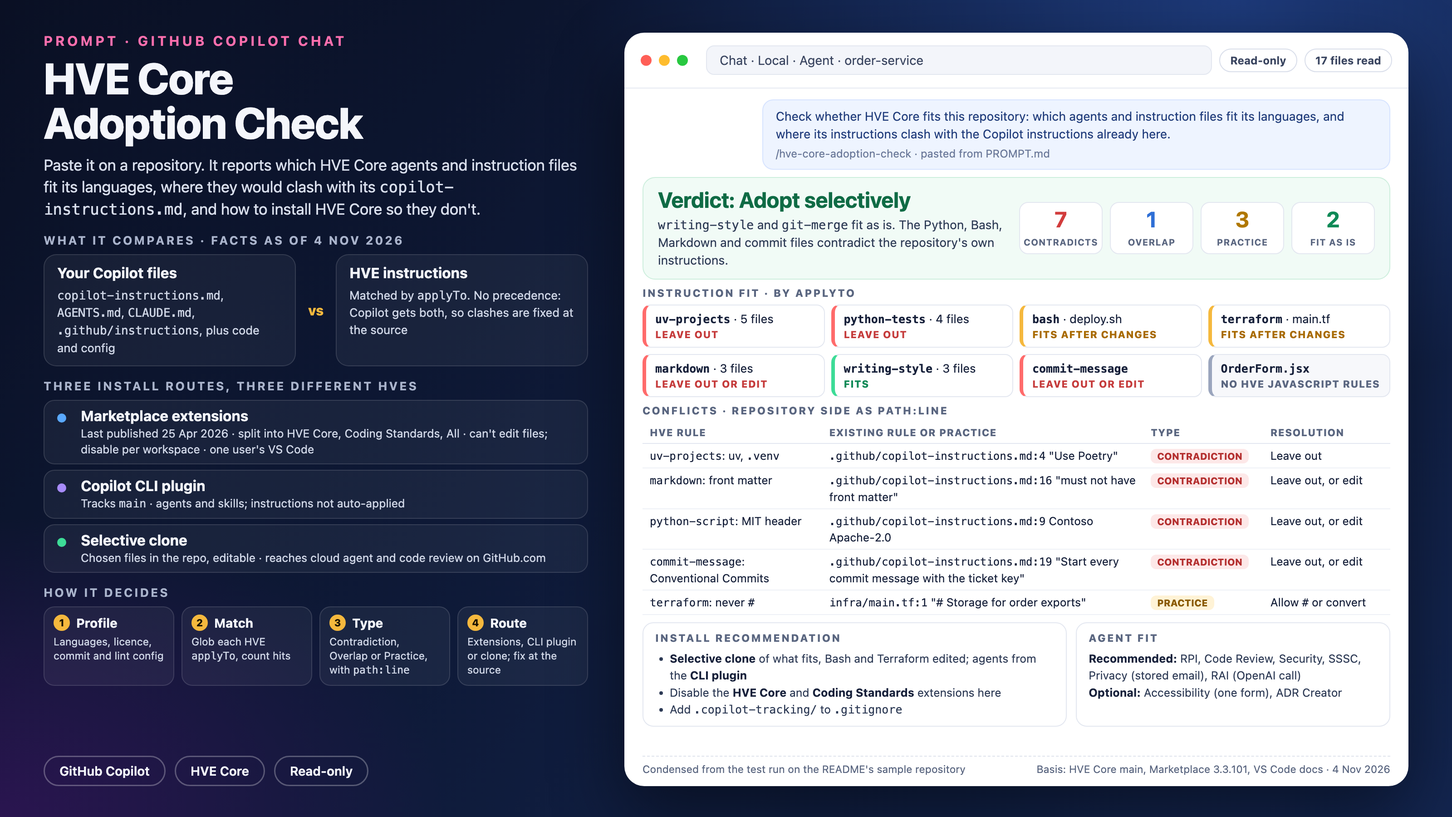
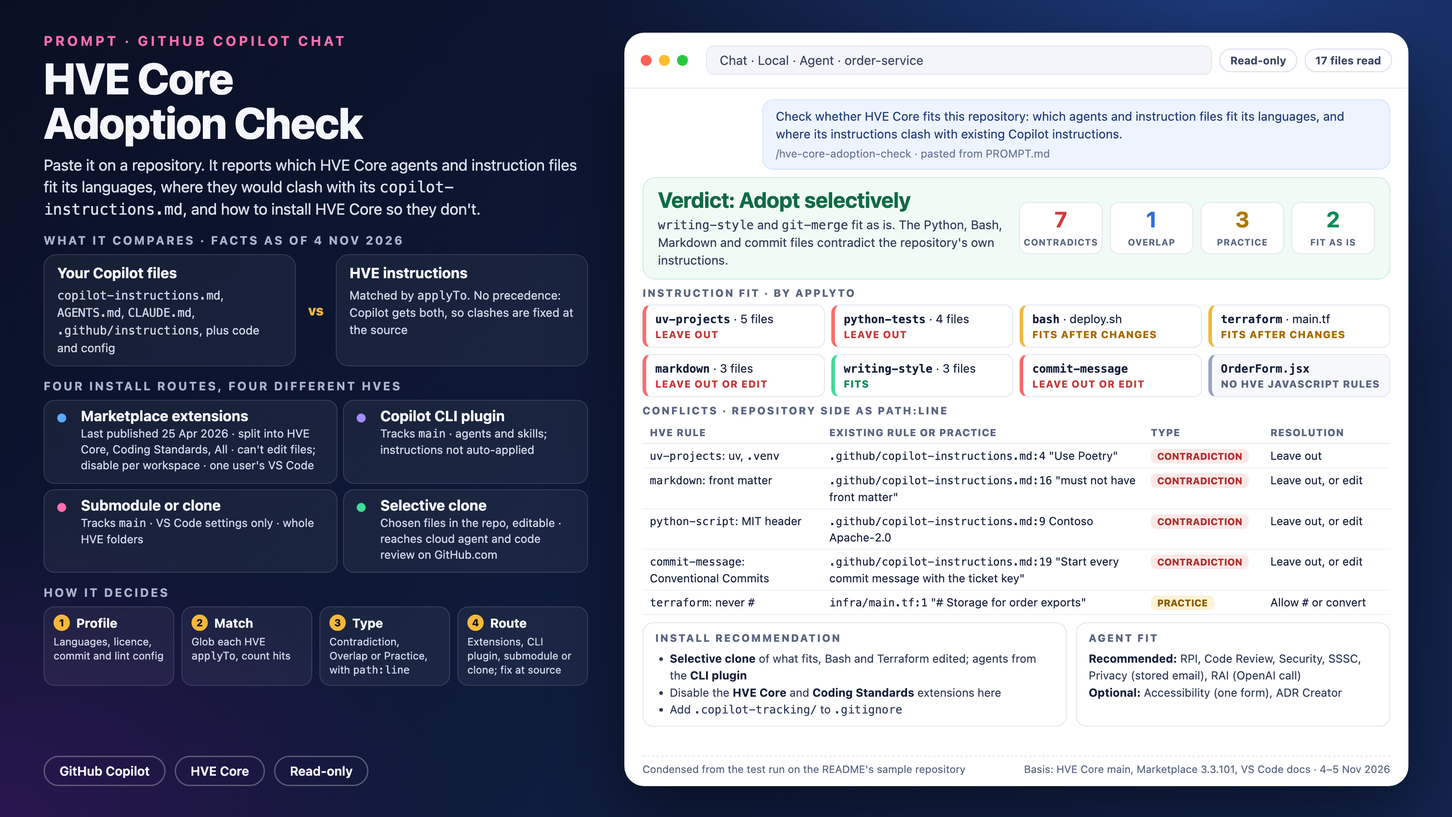
hve-core-adoption-check 1.1: technical review fixes
Corrects facts against current Microsoft Learn pages, updates terminology (Copilot Studio harnesses, Copilot Credits, Microsoft Entra Agent ID), re-sources claims from withdrawn pages, and refreshes the prompt's sources, dates and preview image where they had changed.

diff --git a/prompts/hve-core-adoption-check/README.md b/prompts/hve-core-adoption-check/README.md
@@ -13,7 +13,7 @@ Paste this prompt into GitHub Copilot Chat with the repository open, and Copilot
 - **instruction fit**: each HVE instruction file whose `applyTo` pattern matches files in the repository, with the count and an example path, and the repository's languages HVE doesn't cover;
 - **conflicts**: each HVE rule against the existing rule or practice it meets, with the repository side as `path:line`, typed as a Contradiction, an Overlap or a Practice conflict, and a resolution at the source;
 - **agent fit**: each HVE agent as Recommended, Optional or Not relevant, with the evidence;
-- an **install recommendation**: which extensions, the CLI plugin or a selective clone; which files to include or leave out; whether the result reaches one developer or everyone through the repository; the `.gitignore` line HVE needs; and the change that resolves each Contradiction.
+- an **install recommendation**: which extensions, the CLI plugin, a submodule or a selective clone; which files to include or leave out; whether the result reaches one developer or everyone through the repository; the `.gitignore` line HVE needs; and the change that resolves each Contradiction.
 
 It only reads. It doesn't install HVE Core, change files or run commands that change anything.
 
@@ -21,8 +21,8 @@ It only reads. It doesn't install HVE Core, change files or run commands that ch
 
 | File | What it's for | Where it goes |
 |---|---|---|
-| [`PROMPT.md`](./PROMPT.md) | The prompt: how instructions combine, where HVE Core comes from, its instruction files with the rules most likely to clash, its agents, the steps, the report format and the rules. 7,989 of the 8,000 characters allowed, so trim before adding to it. | Pasted into chat, as is |
-| [`assets/preview.png`](./assets/preview.png) | The gallery image: what the prompt compares, the three install routes, how it decides, and a condensed version of the report from the second test run on the sample repository described under Limitations | For people only |
+| [`PROMPT.md`](./PROMPT.md) | The prompt: how instructions combine, where HVE Core comes from, its instruction files with the rules most likely to clash, its agents, the steps, the report format and the rules. 7,993 of the 8,000 characters allowed, so trim before adding to it. | Pasted into chat, as is |
+| [`assets/preview.png`](./assets/preview.png) | The gallery image: what the prompt compares, the four install routes, how it decides, and a condensed version of the report from the second test run on the sample repository described under Limitations | For people only |
 
 ## Run it
 
@@ -55,28 +55,29 @@ The prompt has no placeholders.
 
 ## What it checks
 
-The prompt states the facts below so the agent doesn't need HVE Core installed or current documentation. HVE Core's `main` was read at commit `5867249` (4 November 2026) and re-checked at `ad69514`, which changed no agents, instructions or `plugin.json`. The Marketplace releases were read from the tags `hve-core-v3.2.2` (23 March 2026) and `hve-core-v3.3.101` (24 April 2026) and from the Marketplace listings.
+The prompt states the facts below so the agent doesn't need HVE Core installed or current documentation. HVE Core's `main` was read at commit `5867249` (4 November 2026) and re-checked on 5 November 2026 at three later commits: `ad69514` changed no agents, instructions or `plugin.json`; `8931ffb` added one line about table delimiter rows to `markdown.instructions.md` and changed no rule the prompt states; `be6ab37` moved `pester.instructions.md` from Pester 5.x to 6.x, which the prompt now states. The Marketplace releases were read from the tags `hve-core-v3.2.2` (23 March 2026) and `hve-core-v3.3.101` (committed 24 April 2026, released and published to the Marketplace 25 April 2026, UTC) and from the Marketplace listings.
 
 | What the prompt says | Basis |
 |---|---|
 | Copilot combines instruction sources with no general precedence order | "There is no precedence rule that applies across all harnesses"; "Copilot combines applicable user and repository instructions without a general precedence order between instruction files"; Local: "Avoid contradictory rules rather than relying on their order" (Custom instructions reference). HVE Core's instructions page agrees: "Applicable instruction sources are additive, and no source outranks another" (Customizing with Instructions) |
 | Resolve at the source, never with a rule telling Copilot to ignore HVE | "Don't rely on a universal precedence order", "remove or narrow the conflicting personal rule", "Don't add another rule to compensate" (Custom instructions) |
 | How an `.instructions.md` file applies; description-only files; inline suggestions | `applyTo` matches "files the agent works with"; "In Local sessions, a `description` lets the agent decide whether to read an instructions file for the task"; custom instructions "don't apply to inline suggestions as you type" (Custom instructions; Custom instructions reference) |
-| What it inventories: `AGENTS.md` in any folder, `CLAUDE.md`, `.claude/rules` | Copilot discovers `AGENTS.md` at the repository root, in the working directory and intermediate directories, and along the paths to files it works with; Local checks "the workspace-root `CLAUDE.md`, `.claude/CLAUDE.md`" and reads Markdown files in `.claude/rules` (Custom instructions reference) |
+| What it inventories: `AGENTS.md` in any folder, `CLAUDE.md`, `.claude/rules` | Copilot discovers `AGENTS.md` at the repository root, in the working directory and intermediate directories, and along the paths to files it works with; Local checks "the workspace-root `CLAUDE.md`, `.claude/CLAUDE.md`" and reads Markdown files in `.claude/rules` (Custom instructions reference). GitHub's support table also lists `GEMINI.md` as agent instructions for Copilot cloud agent and the Copilot CLI, and `REVIEW.md` for Copilot code review on GitHub.com (Support for different types of custom instructions); the prompt doesn't inventory either |
 | Repository instruction files reach Copilot cloud agent, the CLI and code review on GitHub.com; an extension reaches one user's VS Code | The support table lists repository-wide and path-specific instructions as supported by Copilot code review on GitHub.com, Copilot cloud agent and Copilot CLI (Support for different types of custom instructions). VS Code says to "share project instructions through source control" (Custom instructions). An extension is installed per user; that it reaches only that user's VS Code is this prompt's inference |
 | `main` is what the CLI plugin gets; its instructions aren't auto-applied | The plugin registration "tracks `main`" (HVE Core Identity and Channels); "Instruction files in plugin directories are **not** auto-applied via `applyTo` pattern matching" (Copilot CLI Plugin) |
 | Marketplace extensions: dates, versions, collections, older agent names | Visual Studio Marketplace version history for `ise-hve-essentials.hve-core`, `hve-coding-standards` and `hve-core-all`: latest Stable 3.2.2 (23 March 2026), latest pre-release 3.3.101 (25 April 2026). The **HVE Core** listing shows 17 agents (`task-researcher`, `task-planner`, `pr-review` and others), 15 prompts and 7 instructions (`commit-message`, `git-merge`, `markdown`, `prompt-builder`, `pull-request`, `writing-style`, `hve-core-location`). The **HVE Core - Coding Standards** listing shows the language instructions for Bash, Bicep, C#, PowerShell, Python, Rust and Terraform, and three code review agents. **HVE Core - All** is the "Full bundle of all stable HVE Core agents, prompts, instructions, and skills" |
 | Extension instructions apply by `applyTo`; files can't be modified; an extension can be disabled per workspace | The extension contributes its instructions through VS Code's `chatInstructions` contribution point (HVE Core's packaging scripts). After installing, "Instructions apply to matching files through their `applyTo` patterns" (HVE Core Identity and Channels); cons: "Can't modify custom agents, skills, or instructions" (VS Code Extension Installation). "You can disable an extension globally or only for your current Workspace" (Extension Marketplace). No VS Code page documents turning off one extension-contributed instruction |
+| Submodules and clones: VS Code settings only | HVE Core's decision matrix recommends a [Submodule](https://github.com/microsoft/hve-core/blob/main/docs/getting-started/methods/submodule.md) for teams that want controlled updates, and a Peer Directory Clone for a solo developer (Installing HVE Core). With a submodule, "Every team member gets the exact same version, and updates are explicit commits", and `.vscode/settings.json` points `chat.instructionsFilesLocations` at whole HVE folders such as `lib/hve-core/.github/instructions/coding-standards` (Git Submodule Installation); a peer clone does the same with `../hve-core` paths (Peer Directory Clone Installation). VS Code says the setting "remains supported" and that "GitHub Copilot CLI and the GitHub Copilot app don't inherit editor settings" (Custom instructions reference). Whether Copilot cloud agent and code review on GitHub.com read instructions from a submodule's folders isn't documented as of 5 November 2026. HVE's other settings-based methods (git-ignored folder, Codespaces, multi-root workspace, mounted directory) work the same way; the prompt calls them clones. Read at `main` commit `8931ffb` on 5 November 2026 |
 | Selective clone | "Teams that need a repository-owned subset can use `hve-core-installer`"; it "can copy agents, instructions, and complete skill directories" and records the result in `.hve-tracking.json` (Installing HVE Core) |
 | `.copilot-tracking/` | HVE Core agents "create ephemeral workflow artifacts in a `.copilot-tracking/` folder within your project. Add this line to your project's `.gitignore`" (VS Code Extension Installation) |
-| Language instructions, their `applyTo` and what "main" marks | The frontmatter and rules of each file under `.github/instructions/coding-standards/` on `main` and at `hve-core-v3.3.101`. The rules named are the ones most likely to clash, not every rule: the files run from 116 to 675 lines. Same in both: the `applyTo` patterns, `net10.0` and xUnit with NSubstitute (`csharp-tests` applies to every `.cs` file, not only tests), uv and `.venv` with Python 3.11 and an "Always Install" list, a Microsoft Corporation copyright and "SPDX-License-Identifier: MIT" header for Python, PowerShell and Bash (worded "Copyright (c) Microsoft Corporation." in the releases and "Copyright (c) 2026 Microsoft Corporation. All rights reserved." on `main`), "Use 2 spaces for indentation" in Bash, "Do not use `#` for comments" in Terraform. Only on `main`: "Never use `pip install` directly", Terraform's `"this"` naming, and `typescript-doc-comments` |
+| Language instructions, their `applyTo` and what "main" marks | The frontmatter and rules of each file under `.github/instructions/coding-standards/` on `main` and at `hve-core-v3.3.101`. The rules named are the ones most likely to clash, not every rule: the files run from 116 to 675 lines. Same in both: the `applyTo` patterns, `net10.0` and xUnit with NSubstitute (`csharp-tests` applies to every `.cs` file, not only tests), uv and `.venv` with Python 3.11 and an "Always Install" list, a Microsoft Corporation copyright and "SPDX-License-Identifier: MIT" header for Python, PowerShell and Bash (worded "Copyright (c) Microsoft Corporation." in the releases and in Bash on `main`, and "Copyright (c) 2026 Microsoft Corporation. All rights reserved." for Python and PowerShell on `main`), "Use 2 spaces for indentation" in Bash, "Do not use `#` for comments" in Terraform. Only on `main`: "Never use `pip install` directly", Terraform's `"this"` naming, `typescript-doc-comments`, and "Pester 6.x is the testing framework" (the releases say "Pester 5.x") |
 | No JavaScript, Java, Go and other language instructions | No instruction file on `main` or in the releases targets them |
-| Repository-wide instructions | `markdown` ("All markdown files MUST include YAML frontmatter"), `writing-style` ("Do not use em dashes", bolded-prefix list items, "This document explains"), `commit-message` ("Use Conventional Commit Messages"), the same in both. `git-merge`: on `main`, pushes need explicit authorization; in the releases, "Never push, force-push, or rewrite remote history on behalf of the user". `hve-builder` on `main` is `prompt-builder` in the releases, with the same `applyTo`; `content-policy-citation` is `main` only. The extensions also carry `shared/hve-core-location` with `applyTo: "**"`, which tells Copilot where to look when a referenced HVE file is missing; it applies to every file but states no coding rule, so the prompt leaves it out |
-| Other `applyTo` patterns that can match an ordinary repository | On `main`, seven files match `**/docs/planning/adrs/**`: the four ADR Creator files plus `disclaimer-language`, `telemetry-overlay` and `untrusted-content-boundary`. `vex-standards` matches `**/security/vex/**` and `licensing-posture` matches `**/skills/**`. Every other distributed file matches only `.copilot-tracking/` paths or HVE Core's own folders (`plugin.json`, read 4 November 2026) |
+| Repository-wide instructions | `markdown` ("All markdown files MUST include YAML frontmatter"; the prompt's "one H1" simplifies "Do NOT use an H1 heading when YAML frontmatter contains a `title:` field… If no frontmatter exists, begin the file with a top-level heading"), `writing-style` ("Do not use em dashes", bolded-prefix list items, "This document explains"), `commit-message` ("Use Conventional Commit Messages"), the same in both. `git-merge`: on `main`, pushes need explicit authorization; in the releases, "Never push, force-push, or rewrite remote history on behalf of the user". `hve-builder` on `main` is `prompt-builder` in the releases, with the same `applyTo`; `content-policy-citation` is `main` only. The extensions also carry `shared/hve-core-location` with `applyTo: "**"`, which tells Copilot where to look when a referenced HVE file is missing; it applies to every file but states no coding rule, so the prompt leaves it out. **HVE Core - All** also carries `shared/story-quality` (work item story conventions) with `applyTo: '**/*.agent.md, **/.github/instructions/ado/**'`, so it reaches the repository's own custom agents; the prompt doesn't name it |
+| Other `applyTo` patterns that can match an ordinary repository | On `main`, seven files match `**/docs/planning/adrs/**`: the four ADR Creator files plus `disclaimer-language`, `telemetry-overlay` and `untrusted-content-boundary`. `vex-standards` matches `**/security/vex/**` and `licensing-posture` matches `**/skills/**`. `content-policy-citation` also matches `**/.github/workflows/*.md`, `**/.github/workflows/**/*.md` and `**/.github/hooks/**`, which the prompt leaves out. `disclaimer-language` also matches `**/docs/planning/outcome-hypotheses/**`, and two engagement-reporting files match `**/engagement.yaml`, the Engagement Report Generator's own configuration file; the prompt counts that file as one of HVE's own. Every other distributed file matches only `.copilot-tracking/` paths or HVE Core's own folders and files (`plugin.json`, read 4 November 2026 and re-checked at `be6ab37` on 5 November 2026) |
 | 29 agents on `main` and how they fit | The non-subagent entries in `plugin.json` and each agent's description. Grouping them by the evidence they need (a UI, personal data, AI features, notebooks, a backlog) is this prompt's own judgement, not HVE Core's |
 | Checking a test result with References | "Check the response's References section, where available, for the instructions file"; it "helps check inclusion, not compliance" (Custom instructions) |
 
-How it decides: an HVE rule that can't be followed alongside an existing rule is a **Contradiction**; the same topic with compatible rules is an **Overlap**; a rule no instruction states but the code or config consistently breaks is a **Practice** conflict. The verdict is Adopt as is with no Contradiction, Adopt selectively when at least one matching instruction fits as is, Agents only when nothing fits without edits, and Not a fit yet when nothing matches. A Contradiction in an extension's file means not using that extension, or disabling it for the workspace, because its files can't be modified. Otherwise the resolution is at the source: leave out or edit the HVE file in a selective clone, narrow its `applyTo`, or change the repository's own rule.
+How it decides: an HVE rule that can't be followed alongside an existing rule is a **Contradiction**; the same topic with compatible rules is an **Overlap**; a rule no instruction states but the code or config consistently breaks is a **Practice** conflict. The verdict is Adopt as is with no Contradiction, Adopt selectively when at least one matching instruction fits as is, Agents only when nothing fits without edits, and Not a fit yet when nothing matches. A Contradiction in an extension's file means not using that extension, or disabling it for the workspace, because its files can't be modified. Otherwise the resolution is at the source: leave out or edit the HVE file in a selective clone, drop its folder from a submodule's settings, narrow its `applyTo`, or change the repository's own rule.
 
 ## Prerequisites
 
@@ -84,6 +85,7 @@ How it decides: an HVE rule that can't be followed alongside an existing rule is
 - Nothing from HVE Core is needed to run the check. To act on it, one of:
   - a VS Code extension from the Visual Studio Marketplace: `ise-hve-essentials.hve-core` (core), `ise-hve-essentials.hve-coding-standards` (language instructions), `ise-hve-essentials.hve-core-all` (everything stable), or another collection;
   - the Copilot CLI plugin: `copilot plugin marketplace add microsoft/hve-core`, then `copilot plugin install hve-core@hve-core`;
+  - a git submodule (or peer clone) of `microsoft/hve-core`, with `.vscode/settings.json` pointing VS Code at its folders;
   - the `hve-core-installer` skill for a selective clone into the repository.
 
 ## Limitations
@@ -105,7 +107,7 @@ VS Code documentation, with the date each page showed when read on 4 November 20
 - [Custom instructions](https://code.visualstudio.com/docs/agent-customization/custom-instructions), 4 Nov 2026
 - [Custom instructions reference](https://code.visualstudio.com/docs/agents/reference/custom-instructions-reference), 4 Nov 2026: "Combine instruction sources", the settings and the instruction locations for each harness
 - [Extension Marketplace](https://code.visualstudio.com/docs/configure/extensions/extension-marketplace), 4 Nov 2026: disabling an extension for a workspace
-- [Use prompt files in VS Code](https://code.visualstudio.com/docs/copilot/customization/prompt-files), updated 28 Oct 2026
+- [Use prompt files in VS Code](https://code.visualstudio.com/docs/agent-customization/prompt-files), 4 Nov 2026, read on 5 November 2026
 
 GitHub documentation, read on 4 November 2026:
 
@@ -117,7 +119,7 @@ Visual Studio Marketplace, read on 4 November 2026 (listings and version history
 - [HVE Core - Coding Standards](https://marketplace.visualstudio.com/items?itemName=ise-hve-essentials.hve-coding-standards), same versions and dates
 - [HVE Core - All](https://marketplace.visualstudio.com/items?itemName=ise-hve-essentials.hve-core-all), same versions and dates
 
-HVE Core ([microsoft/hve-core](https://github.com/microsoft/hve-core), MIT licence), `main` read at commit `5867249` on 4 November 2026, with each page's `ms.date`:
+HVE Core ([microsoft/hve-core](https://github.com/microsoft/hve-core), MIT licence), `main` read at commit `5867249` on 4 November 2026 and re-checked at `8931ffb` and `be6ab37` on 5 November 2026, with each page's `ms.date`:
 
 - [Customizing with Instructions](https://github.com/microsoft/hve-core/blob/main/docs/customization/instructions.md), 26 Oct 2026
 - [Team Adoption and Governance](https://github.com/microsoft/hve-core/blob/main/docs/customization/team-adoption.md), 7 Oct 2026
@@ -125,13 +127,16 @@ HVE Core ([microsoft/hve-core](https://github.com/microsoft/hve-core), MIT licen
 - [HVE Core Identity and Channels](https://github.com/microsoft/hve-core/blob/main/docs/getting-started/packages.md), 7 Oct 2026
 - [VS Code Extension Installation](https://github.com/microsoft/hve-core/blob/main/docs/getting-started/methods/extension.md), 7 Oct 2026
 - [Copilot CLI Plugin](https://github.com/microsoft/hve-core/blob/main/docs/getting-started/methods/cli-plugins.md), 7 Oct 2026
+- [Git Submodule Installation](https://github.com/microsoft/hve-core/blob/main/docs/getting-started/methods/submodule.md), 7 Oct 2026, read at `8931ffb` on 5 November 2026
+- [Peer Directory Clone Installation](https://github.com/microsoft/hve-core/blob/main/docs/getting-started/methods/peer-clone.md), 7 Oct 2026, read at `8931ffb` on 5 November 2026
+- The other settings-based method pages, each setting `chat.instructionsFilesLocations`, read at `8931ffb` on 5 November 2026: [Git-Ignored Folder](https://github.com/microsoft/hve-core/blob/main/docs/getting-started/methods/git-ignored.md) (7 Oct 2026), [GitHub Codespaces](https://github.com/microsoft/hve-core/blob/main/docs/getting-started/methods/codespaces.md) (2 Oct 2026), [Multi-Root Workspace](https://github.com/microsoft/hve-core/blob/main/docs/getting-started/methods/multi-root.md) (7 Oct 2026), [Mounted Directory](https://github.com/microsoft/hve-core/blob/main/docs/getting-started/methods/mounted.md) (7 Oct 2026)
 - [Agent Systems Catalog](https://github.com/microsoft/hve-core/blob/main/docs/agents/README.md), 7 Oct 2026
 - [Contributing Prompts to HVE Core](https://github.com/microsoft/hve-core/blob/main/docs/contributing/prompts.md), 7 Oct 2026: the section names the prompt uses (Overview, Inputs, Workflow Steps, Success Criteria, Error Handling)
 - [`plugin.json`](https://github.com/microsoft/hve-core/blob/main/plugin.json): the distributed agents and instruction files (`main` keeps the version at 3.2.2; it isn't a release target)
 - [`.github/instructions/`](https://github.com/microsoft/hve-core/tree/main/.github/instructions), undated: each instruction file's `applyTo` and rules
 - [`.github/agents/`](https://github.com/microsoft/hve-core/tree/main/.github/agents), undated: each agent's name and description
 - [`scripts/extension/`](https://github.com/microsoft/hve-core/tree/main/scripts/extension), undated: the `chatInstructions` contribution
-- Release tags [`hve-core-v3.2.2`](https://github.com/microsoft/hve-core/tree/hve-core-v3.2.2) (23 Mar 2026) and [`hve-core-v3.3.101`](https://github.com/microsoft/hve-core/tree/hve-core-v3.3.101) (24 Apr 2026): the instruction files the extensions were built from
+- Release tags [`hve-core-v3.2.2`](https://github.com/microsoft/hve-core/tree/hve-core-v3.2.2) (23 Mar 2026) and [`hve-core-v3.3.101`](https://github.com/microsoft/hve-core/tree/hve-core-v3.3.101) (committed 24 Apr 2026, released 25 Apr 2026 UTC): the instruction files the extensions were built from
 
 ## Contributors
 
@@ -144,6 +149,7 @@ HVE Core ([microsoft/hve-core](https://github.com/microsoft/hve-core), MIT licen
 | Version | Date | Comments |
 | --- | --- | --- |
 | 1.0 | November 2026 | Initial release |
+| 1.1 | November 2026 | Adds the submodule route (VS Code settings only) from HVE Core's install decision matrix, and Pester 6 on `main`. Also corrects the `applyTo` matches, the H1 rule, the licence header wording and the tag dates, and notes `GEMINI.md` and `REVIEW.md`. |
 
 ## Help
 

diff --git a/prompts/hve-core-adoption-check/PROMPT.md b/prompts/hve-core-adoption-check/PROMPT.md
@@ -2,7 +2,7 @@
 
 ## Overview
 
-Check whether HVE Core (Microsoft's Hypervelocity Engineering framework) fits this repository: which agents and instruction files fit its languages, and where its instructions clash with the Copilot instructions already here. Read only: you MUST NOT change files, install anything or run commands that change anything.
+Check whether HVE Core (Microsoft's Hypervelocity Engineering framework) fits this repository: which agents and instruction files fit its languages, and where its instructions clash with existing Copilot instructions. Read only: you MUST NOT change files, install anything or run commands that change state.
 
 ## Inputs
 
@@ -10,14 +10,14 @@ None: read the workspace. If you can't, ask me for the file list, Copilot instru
 
 ## How instructions combine (as of 4 November 2026)
 
-- Copilot combines every applicable source (`copilot-instructions.md`, `AGENTS.md`, matching `.instructions.md` files, user instructions) with no general precedence order, so a contradiction isn't resolved for you.
+- Copilot combines every applicable source (`copilot-instructions.md`, `AGENTS.md`, matching `.instructions.md` files, user instructions) with no general precedence order, so contradictions aren't resolved for you.
 - An `.instructions.md` file applies when the agent works with files matching its `applyTo`; one with only a `description` loads when relevant (Local sessions). None apply to inline suggestions.
 - Instruction files in the repository also reach Copilot cloud agent, the Copilot CLI and code review on GitHub.com. Extension instructions reach only that user's VS Code.
 
 ## Where HVE Core comes from
 
-- **`main`**: the Copilot CLI plugin and clones. Plugin instructions aren't auto-applied.
-- **Marketplace extensions**, last published 25 April 2026 (Stable 3.2.2, pre-release 3.3.101), lag `main` and use older agent names (task-researcher, pr-review). **HVE Core**: RPI, Git, and the Markdown, writing-style, commit and merge instructions; **HVE Core - Coding Standards**: language instructions; **HVE Core - All**: everything. Instructions apply by `applyTo` in every workspace; files can't be modified, but an extension can be disabled per workspace.
+- **`main`**: the Copilot CLI plugin, clones and submodules (VS Code settings only). Plugin instructions aren't auto-applied.
+- **Marketplace extensions**, last published 25 April 2026 (Stable 3.2.2, pre-release 3.3.101), lag `main` and use older agent names (task-researcher, pr-review). **HVE Core**: RPI, Git, Markdown, writing-style, commit and merge instructions; **HVE Core - Coding Standards**: language instructions; **HVE Core - All**: everything. Instructions apply by `applyTo` in every workspace; files can't be edited, but an extension can be disabled per workspace.
 - **Selective clone** (`hve-core-installer`): copies chosen files into the repository, where they can be edited.
 - Agents write to `.copilot-tracking/`; HVE says to add it to `.gitignore`.
 
@@ -30,7 +30,7 @@ Language:
 - `uv-projects` (`**/*.py, **/*.ipynb`): uv and `.venv`, Python 3.11 default, always install pytest, ruff and more; main: never `pip install` (also in `python-script`). `python-script` (`**/*.py`): a Microsoft MIT header, Google docstrings. `python-tests` (`**/*.py`): pytest-mock.
 - `rust`, `rust-tests` (`**/*.rs`): no `unwrap()` or `expect()` in production, Tokio, `tracing` not `println!`, mockall.
 - `typescript-doc-comments` (main; `**/*.ts, *.tsx, *.mts, *.cts`): TSDoc on reusable APIs; nothing else for TypeScript.
-- `powershell` (`**/*.ps1, *.psm1, *.psd1`), `pester` (`**/*.Tests.ps1`): the Microsoft header, `#!/usr/bin/env pwsh` on `.ps1`.
+- `powershell` (`**/*.ps1, *.psm1, *.psd1`), `pester` (`**/*.Tests.ps1`): the Microsoft header, `#!/usr/bin/env pwsh` on `.ps1`, Pester 5 (main: 6).
 - `bash` (`**/*.sh`): the Microsoft header, 2-space indent, ShellCheck.
 - `terraform` (`**/*.tf, *.tfvars, **/terraform/**`): kebab-case files, snake_case names, `//` comments, never `#`; main: `this` for a single resource.
 - `bicep` (`**/*.bicep, *.bicepparam, **/bicep/**`): camelCase parameters, `@description()` on every parameter, no hard-coded names or locations.
@@ -41,12 +41,12 @@ Repository-wide:
 - `commit-message` (description only): Conventional Commits, scope from the main directory, imperative mood.
 - `git-merge` (description only): no force-push; no push without approval (extensions: never).
 - `hve-builder` (extensions: `prompt-builder`), `content-policy-citation` (main), on `**/*.prompt.md, *.agent.md, *.instructions.md, SKILL.md`: HVE's rules for your own Copilot files.
-- main: seven ADR and planning files on `**/docs/planning/adrs/**`, `vex-standards` on `**/security/vex/**`, `licensing-posture` on `**/skills/**`. The rest match only `.copilot-tracking/**` or HVE's own folders.
+- main: seven ADR and planning files on `**/docs/planning/adrs/**`, `vex-standards` on `**/security/vex/**`, `licensing-posture` on `**/skills/**`. The rest match only `.copilot-tracking/**` or HVE's own files.
 
 Agents on main (29):
 - Any code repository: RPI Agent, Code Review, Documentation, ADR Creator, System Architecture Reviewer, Security Planner and Reviewer, SSSC (supply chain) Planner and Reviewer.
 - Need evidence: Accessibility Planner and Reviewer, UX UI Designer (a UI); Privacy Planner and Reviewer (personal data); RAI Planner and Reviewer (AI features); Data Science and Engineering Coach (notebooks); Network ISA-95 Planner (edge Kubernetes); Backlog Manager, Functional Planner (Azure DevOps, GitHub or Jira).
-- Not tied to code: PRD and BRD Builders, Meeting Analyst (needs work-iq MCP), DT Coach and Learning Tutor, Engagement Report Generator; experimental: Experiment Designer, PowerPoint Builder, HVE Demo Material Builder.
+- Not tied to code: PRD and BRD Builders, Meeting Analyst, DT Coach and Learning Tutor, Engagement Report Generator; experimental: Experiment Designer, PowerPoint Builder, HVE Demo Material Builder.
 
 ## Workflow Steps
 
@@ -57,7 +57,7 @@ Agents on main (29):
    - **Contradiction**: both can't be followed (frontmatter required vs forbidden; another commit format; another owner's licence header).
    - **Overlap**: same topic, compatible; duplicated guidance.
    - **Practice**: no instruction, but code or config consistently does otherwise (Moq, `pip`, `.editorconfig`).
-5. **Match agents** to evidence in the repository.
+5. **Match agents** to repository evidence.
 6. **Pick an install route.** A Contradiction in an extension's file means not using, or disabling, that extension here.
 
 ## Output
@@ -79,7 +79,7 @@ Only files with matches, then the languages HVE doesn't cover.
 | Agent | Fit (Recommended, Optional, Not relevant) | Evidence |
 One row for agents not tied to code.
 
-**Install recommendation:** route (which extensions, CLI plugin or selective clone), files to include or leave out, reach (one user, or everyone via the repository), the `.gitignore` line, and the change resolving each Contradiction.
+**Install recommendation:** route (extensions, CLI plugin, submodule or selective clone), files to include or leave out, reach (one user, or everyone via the repository), the `.gitignore` line, and the change resolving each Contradiction.
 
 **Couldn't check:** steps skipped and why.
 
@@ -92,4 +92,4 @@ Every conflict cites `path:line` and names the HVE file; every fit rests on evid
 - You MUST NOT propose a rule telling Copilot to ignore HVE; nothing gives it precedence. Resolve at the source: leave out, disable or edit the HVE file, narrow its `applyTo`, or change the repository's rule.
 - With no `copilot-instructions.md`, say so; conflicts then come from other instruction files and Practice.
 - If unsure whether rules clash, call it Overlap and give a test: run a typical task and check the response's References (inclusion, not compliance).
-- HVE Core evolves fast: if HVE files in the workspace differ from these facts, use them and say so.
+- HVE Core evolves fast: if workspace HVE files differ from these facts, use them and say so.
